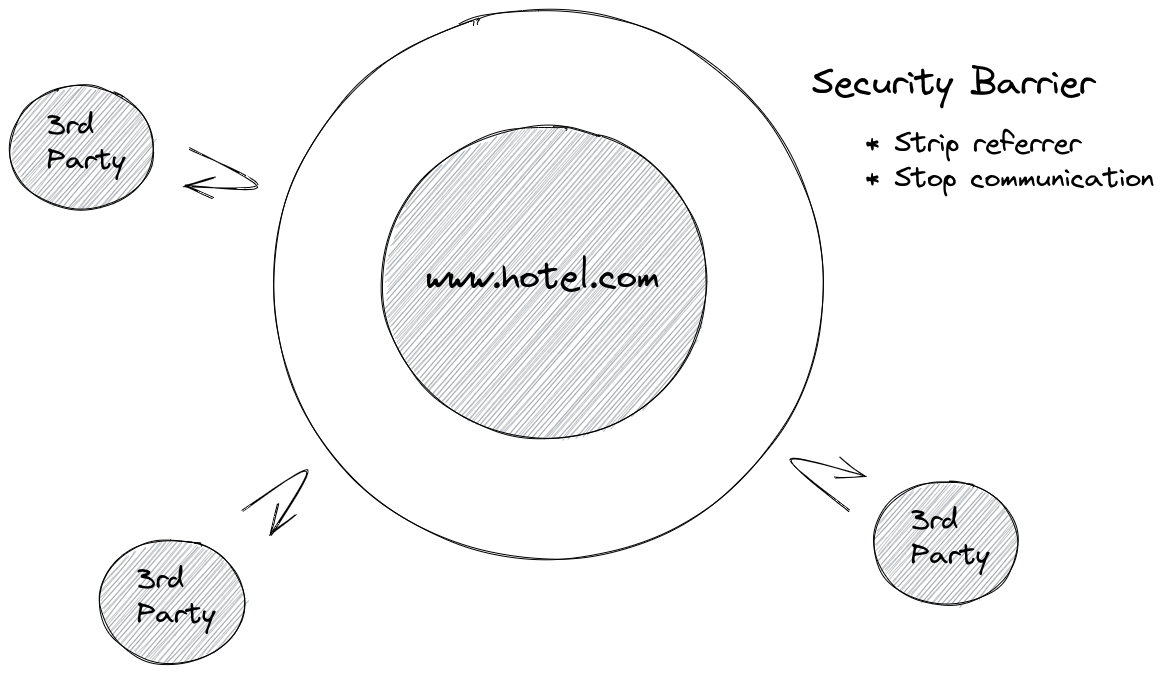
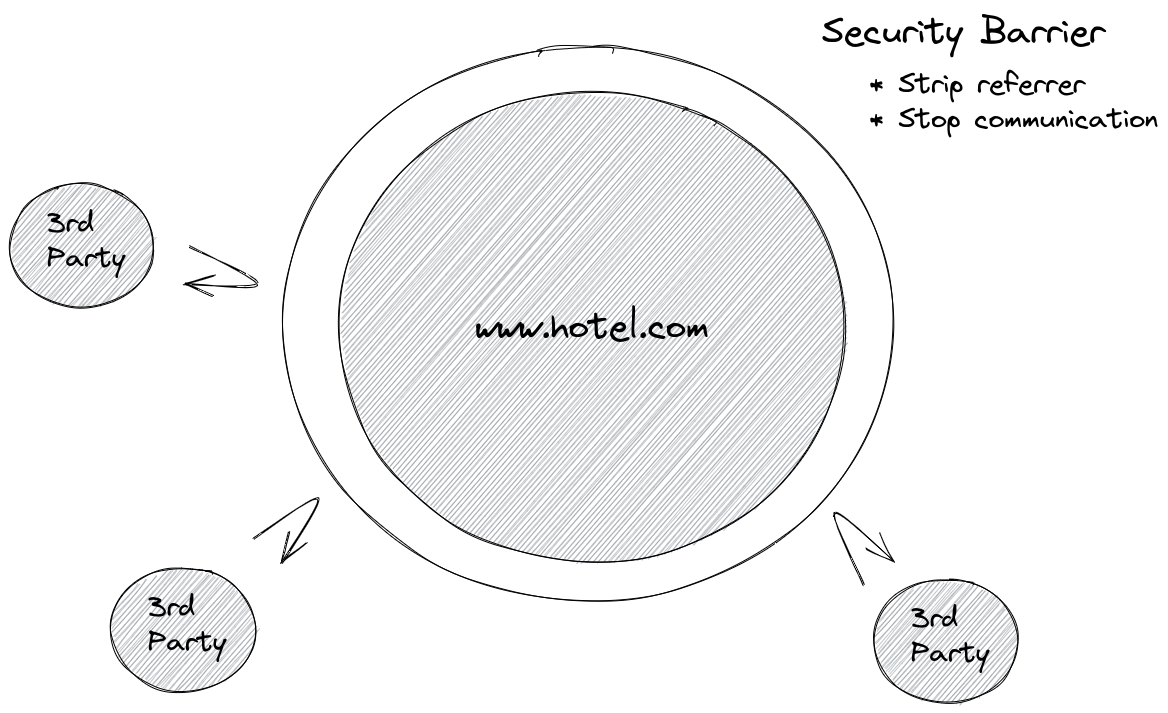
improve images and links

diff --git a/cross-domain-analytics.md b/cross-domain-analytics.md
@@ -55,17 +55,19 @@ To reduce developer burden, Triptease will automatically configure the following
   to [no-referrer-when-downgrade](https://developer.mozilla.org/en-US/docs/Web/HTTP/Headers/Referrer-Policy#:~:text=any%20referrer%20information.-,no%2Dreferrer%2Dwhen%2Ddowngrade,-Send%20the%20origin)
   . This will improve Triptease analytics as well as other tools like Google Analytics (especially traffic acquisition
   and funnel / path exploration).
-- Ensure `target=”_blank”` and `rel=”opener”` are set. This allows Triptease to identify the same visitor across both
-  windows without using cookies or local storage. This will mean that links to your BE will always open in a new window.
+- Ensure [target=”_blank”](https://developer.mozilla.org/en-US/docs/Web/HTML/Element/a#attr-target)
+  and [rel=”opener”](https://developer.mozilla.org/en-US/docs/Web/HTML/Attributes/rel#attr-opener) are set. This allows
+  Triptease to identify the same visitor across both windows without using cookies or local storage. This will mean that
+  links to your BE will always open in a new window.
 
 **NB: This should only ever apply to your Booking Engine links and not say another third party like Facebook. Please get
-in touch if this is not the case, and we can adjust your setup.** 
+in touch if this is not the case, and we can adjust your setup.**
 
 ### Why doesn't Triptease use link decoration like Google Analytics?
 
 We frequently see many URLs that contain a visitor ID being freely shared, thereby incorrectly identifying different
 users as one. Also, as single page application becomes more common, we have observed that websites often strip the query
-parameters before they can be read by your analytics scripts. This leads to more inaccurate analytics and reports. 
+parameters before they can be read by your analytics scripts. This leads to more inaccurate analytics and reports.
 
 ### How can I turn on cross domain analytics for my hotel?
 
